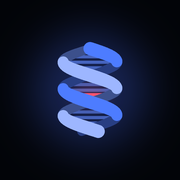
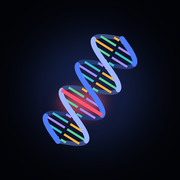
Botões da abertura alinhados e novo ícone de DNA
- Os quatro botões da abertura formam uma grade 2×2 com a mesma
  largura e altura; o "Instalar como app" não cai mais sozinho numa
  linha. Estilos do app passam a carregar depois do CSS principal.
- Animação de abertura sempre termina no lugar e limpa os estilos,
  mesmo se a aba ficar em segundo plano.
- Novo ícone: dupla hélice inclinada com os pares de bases coloridos
  e o par mutado (R337H) em vermelho.

Changed region(s): [[0.2222, 0.1667, 0.7778, 0.8333]]

diff --git a/index.html b/index.html
@@ -4,35 +4,6 @@
 <meta charset="utf-8">
 <meta name="viewport" content="width=device-width, initial-scale=1, viewport-fit=cover">
 <meta name="theme-color" content="#060A13">
-<link rel="manifest" href="manifest.webmanifest">
-<link rel="icon" type="image/png" sizes="32x32" href="icons/favicon-32.png">
-<link rel="apple-touch-icon" href="icons/apple-touch-icon.png">
-<meta name="apple-mobile-web-app-capable" content="yes">
-<meta name="mobile-web-app-capable" content="yes">
-<meta name="apple-mobile-web-app-title" content="GenoEvidence">
-<meta name="apple-mobile-web-app-status-bar-style" content="black">
-<meta name="application-name" content="GenoEvidence">
-<style>
-.install-btn{display:inline-flex;align-items:center;gap:8px}
-.install-btn svg{width:16px;height:16px;flex:none}
-.drawer-install{all:unset;box-sizing:border-box;cursor:pointer;display:flex;align-items:center;justify-content:center;gap:8px;margin-top:10px;padding:12px 14px;border-radius:10px;background:var(--text);color:var(--ink);font:600 14px/1 var(--sans)}
-.drawer-install:focus-visible{outline:2px solid var(--amber);outline-offset:2px}
-.drawer-install:active{transform:scale(.97)}
-.install-help{position:fixed;left:50%;bottom:calc(20px + env(safe-area-inset-bottom,0px));transform:translateX(-50%);z-index:210;width:min(360px,calc(100vw - 32px));box-sizing:border-box;padding:18px;border-radius:16px;background:#131E35;border:1px solid var(--line2);box-shadow:0 20px 50px rgba(0,0,0,.55);color:var(--text);font:400 15px/1.5 var(--sans)}
-.install-help b.t{display:block;font:600 16px/1.2 var(--display);margin-bottom:8px}
-.install-help{max-height:min(80vh,560px);overflow-y:auto}
-.install-help p{margin:0 0 10px;color:#D7DEEB}
-.install-help ol{margin:0 0 12px;padding-left:20px;color:#D7DEEB;display:flex;flex-direction:column;gap:8px}
-.install-help .ico{width:18px;height:18px;vertical-align:-3px;margin:0 2px;color:#9DB6FF}
-.install-help .tip2{font-size:13.5px;color:var(--muted);border-top:1px solid var(--line2);padding-top:10px}
-.install-help .btns{display:flex;gap:8px}
-.install-help .btns button{flex:1}
-.install-help button.ghost{background:transparent;color:var(--text);box-shadow:inset 0 0 0 1px var(--line2)}
-.install-scrim{position:fixed;inset:0;z-index:205;background:rgba(3,6,12,.6)}
-.install-help button{all:unset;cursor:pointer;display:block;width:100%;box-sizing:border-box;text-align:center;padding:11px;border-radius:10px;background:var(--text);color:var(--ink);font:600 14px/1 var(--sans)}
-@media (display-mode:standalone){.install-btn,.drawer-install{display:none!important}}
-</style>
-
 <meta property="og:title" content="GenoEvidence">
 <meta property="og:description" content="Sistema visual interativo sobre a variante TP53 R337H e a Síndrome de Li-Fraumeni.">
 <style>html{color-scheme:dark}body{margin:0}img{max-width:100%}</style>
@@ -677,6 +648,39 @@ main,footer,.hero{position:relative;z-index:1}
 
 <canvas id="bgfx" aria-hidden="true"></canvas>
 <div class="bg-grid" aria-hidden="true"></div>
+<link rel="manifest" href="manifest.webmanifest">
+<link rel="icon" type="image/png" sizes="32x32" href="icons/favicon-32.png">
+<link rel="apple-touch-icon" href="icons/apple-touch-icon.png">
+<meta name="apple-mobile-web-app-capable" content="yes">
+<meta name="mobile-web-app-capable" content="yes">
+<meta name="apple-mobile-web-app-title" content="GenoEvidence">
+<meta name="apple-mobile-web-app-status-bar-style" content="black">
+<meta name="application-name" content="GenoEvidence">
+<style>
+.cta-row{display:grid;grid-template-columns:repeat(2,minmax(0,1fr));gap:10px;max-width:460px}
+.cta-row .cta{width:100%;box-sizing:border-box;height:46px;padding:0 16px;justify-content:center;white-space:nowrap;margin:0}
+button.cta{border:0;cursor:pointer;-webkit-appearance:none;appearance:none;font:600 14px/1 var(--sans)}
+.install-btn{gap:8px}
+.install-btn svg{width:15px;height:15px;flex:none}
+@media (max-width:360px){.cta-row{grid-template-columns:1fr}}
+@media (display-mode:standalone){.cta-row{display:flex;flex-wrap:wrap;max-width:none}.cta-row .cta{width:auto}}
+.drawer-install{all:unset;box-sizing:border-box;cursor:pointer;display:flex;align-items:center;justify-content:center;gap:8px;margin-top:10px;padding:12px 14px;border-radius:10px;background:var(--text);color:var(--ink);font:600 14px/1 var(--sans)}
+.drawer-install:focus-visible{outline:2px solid var(--amber);outline-offset:2px}
+.drawer-install:active{transform:scale(.97)}
+.install-help{position:fixed;left:50%;bottom:calc(20px + env(safe-area-inset-bottom,0px));transform:translateX(-50%);z-index:210;width:min(360px,calc(100vw - 32px));box-sizing:border-box;padding:18px;border-radius:16px;background:#131E35;border:1px solid var(--line2);box-shadow:0 20px 50px rgba(0,0,0,.55);color:var(--text);font:400 15px/1.5 var(--sans)}
+.install-help b.t{display:block;font:600 16px/1.2 var(--display);margin-bottom:8px}
+.install-help{max-height:min(80vh,560px);overflow-y:auto}
+.install-help p{margin:0 0 10px;color:#D7DEEB}
+.install-help ol{margin:0 0 12px;padding-left:20px;color:#D7DEEB;display:flex;flex-direction:column;gap:8px}
+.install-help .ico{width:18px;height:18px;vertical-align:-3px;margin:0 2px;color:#9DB6FF}
+.install-help .tip2{font-size:13.5px;color:var(--muted);border-top:1px solid var(--line2);padding-top:10px}
+.install-help .btns{display:flex;gap:8px}
+.install-help .btns button{flex:1}
+.install-help button.ghost{background:transparent;color:var(--text);box-shadow:inset 0 0 0 1px var(--line2)}
+.install-scrim{position:fixed;inset:0;z-index:205;background:rgba(3,6,12,.6)}
+.install-help button{all:unset;cursor:pointer;display:block;width:100%;box-sizing:border-box;text-align:center;padding:11px;border-radius:10px;background:var(--text);color:var(--ink);font:600 14px/1 var(--sans)}
+@media (display-mode:standalone){.install-btn,.drawer-install{display:none!important}}
+</style>
 </head>
 <body>
 <!-- ================= HUD ================= -->
@@ -1535,9 +1539,9 @@ addEventListener('scroll',onScroll,{passive:true});onScroll();
 
 /* ---------------- Hero intro ---------------- */
 if(window.gsap&&!RM){
-  gsap.from('.hero h1 span',{yPercent:60,opacity:0,duration:1.1,ease:'expo.out',stagger:.08,delay:.15});
-  gsap.from(['.hero .eyebrow','.hero .sub','.authors','.cta'],{y:18,opacity:0,duration:.9,ease:'power3.out',stagger:.08,delay:.45});
-  gsap.from('.readout .row',{x:24,opacity:0,duration:.7,ease:'power3.out',stagger:.06,delay:.7});
+  const _intro=[gsap.from('.hero h1 span',{yPercent:60,opacity:0,duration:1.1,ease:'expo.out',stagger:.08,delay:.15,clearProps:'all'}),
+  gsap.from(['.hero .eyebrow','.hero .sub','.authors','.cta'],{y:18,opacity:0,duration:.9,ease:'power3.out',stagger:.08,delay:.45,clearProps:'all'}),
+  gsap.from('.readout .row',{x:24,opacity:0,duration:.7,ease:'power3.out',stagger:.06,delay:.7,clearProps:'all'})];setTimeout(()=>_intro.forEach(t=>t.progress(1)),3500);
 }
 /* counters */
 $$('[data-count]').forEach(n=>{const to=+n.dataset.count,pre=n.dataset.prefix?n.dataset.prefix.replace('&gt;','>'):'',suf=n.dataset.suffix||'';

diff --git a/sw.js b/sw.js
@@ -1,5 +1,5 @@
 /* GenoEvidence: guarda o site no aparelho para abrir rápido e funcionar sem internet */
-const VERSION='genoevidence-2d66c3288f';
+const VERSION='genoevidence-d600e65139';
 const APP=["./", "index.html", "manifest.webmanifest", "icons/apple-touch-icon.png", "icons/favicon-32.png", "icons/icon-192.png", "icons/icon-512.png", "icons/icon-maskable-512.png", "imagens/clinvar-condicoes.webp", "imagens/clinvar-descricao.webp", "imagens/clinvar-evidencias.webp", "imagens/clinvar-submissoes.webp", "imagens/dynamut2-contatos-normal.webp", "imagens/dynamut2-mutante-his337.webp", "imagens/dynamut2-normal-arg337.webp", "imagens/dynamut2-resultado.webp", "imagens/dynamut2-vista-mutante.webp", "imagens/gnomad-frequencia.webp", "imagens/tp53db-estrutura-3d.webp", "imagens/tp53db-registros.webp", "imagens/tp53db-sitios.webp", "imagens/mini/clinvar-condicoes.webp", "imagens/mini/clinvar-descricao.webp", "imagens/mini/clinvar-evidencias.webp", "imagens/mini/clinvar-submissoes.webp", "imagens/mini/dynamut2-contatos-normal.webp", "imagens/mini/dynamut2-mutante-his337.webp", "imagens/mini/dynamut2-normal-arg337.webp", "imagens/mini/dynamut2-resultado.webp", "imagens/mini/dynamut2-vista-mutante.webp", "imagens/mini/gnomad-frequencia.webp", "imagens/mini/tp53db-estrutura-3d.webp", "imagens/mini/tp53db-registros.webp", "imagens/mini/tp53db-sitios.webp"];
 const CDN=['https://cdnjs.cloudflare.com/ajax/libs/three.js/r128/three.min.js','https://cdnjs.cloudflare.com/ajax/libs/gsap/3.12.5/gsap.min.js'];
 self.addEventListener('install',e=>{e.waitUntil((async()=>{const c=await caches.open(VERSION);await c.addAll(APP);
